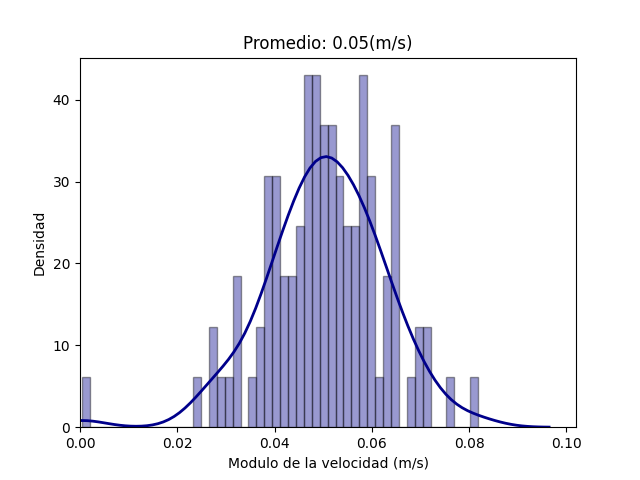
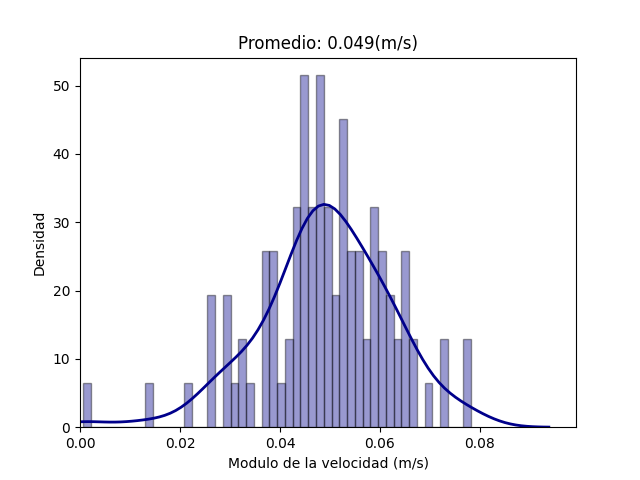
Ovito corners

diff --git a/src/main/java/ar/itba/edu/ss/systems/BrownianMotion.java b/src/main/java/ar/itba/edu/ss/systems/BrownianMotion.java
@@ -118,7 +118,7 @@ public class BrownianMotion {
                     false);
         }
 
-        IOUtils.ovitoOutputParticles(BROWNIAN_MOTION_SIMULATION_FILENAME, particles, frame++, false);
+        IOUtils.ovitoOutputParticles(BROWNIAN_MOTION_SIMULATION_FILENAME, addCornerParticles(particles), frame++, false);
 
         saveVelocities(initialIterationVelocity);
 
@@ -243,23 +243,19 @@ public class BrownianMotion {
     private void outputCalculations(double simulationTime) throws IOException {
         IOUtils.CSVWrite(PDF_COLLISIONS_FILENAME,
                 collitionTimes,
-                collitionTimes.size() / simulationTime + "\n\n",
+                "",
                 time -> time + "\n",
                 false);
 
-        Double initialVelocitySum = initialIterationVelocity.entrySet().stream().reduce(0.0, (acc, entry) -> entry.getValue() + acc, Double::sum);
-
         IOUtils.CSVWrite(PDF_VELOCITY_INITIAL_FILENAME,
                 initialIterationVelocity.values(),
-                initialVelocitySum / (double) initialIterationVelocity.size() + "\n\n",
+                "",
                 velocity -> velocity + "\n",
                 false);
 
-        Double thirdIterationVelocitySum = thirdIterationVelocity.entrySet().stream().reduce(0.0, (acc, entry) -> (entry.getValue() / (double) thirdIterations) + acc, Double::sum);
-
         IOUtils.CSVWrite(PDF_VELOCITY_THIRD_FILENAME,
                 thirdIterationVelocity.values(),
-                thirdIterationVelocitySum / (double) thirdIterationVelocity.size() + "\n\n",
+                "",
                 velocity -> velocity / (double) thirdIterations + "\n",
                 false);
 
@@ -292,7 +288,30 @@ public class BrownianMotion {
             cpyParticle.setY(cpyParticle.getY() - cpyParticle.getYVelocity() * dt);
             return cpyParticle;
         }).collect(Collectors.toList());
-        IOUtils.ovitoOutputParticles(BROWNIAN_MOTION_SIMULATION_FILENAME, frameParticles, frame, true);
+        IOUtils.ovitoOutputParticles(BROWNIAN_MOTION_SIMULATION_FILENAME,
+                addCornerParticles(frameParticles),
+                frame,
+                true);
+    }
+
+    private List<HardParticle> addCornerParticles(List<HardParticle> particles) {
+        /*
+            Agregamos particulas de radio MUY pequeño en los bordes para que ovito mantenga fijo el simulation cell
+        */
+        List<HardParticle> auxList = new LinkedList<>(particles);
+        long maxId = auxList.stream().max(Comparator.comparingLong(HardParticle::getId)).get().getId();
+        Double[] x = {0.0, 0.0, L, L};
+        Double[] y = {L, 0.0, L, 0.0};
+        for (int i = 0; i < 4; i++) {
+            auxList.add((HardParticle) new HardParticle.Builder(maxId + 1 + i)
+                    .withMass(0)
+                    .withAngle(0)
+                    .withVelocity(0)
+                    .withRadius(0.00001)
+                    .withCoordinates(x[i], y[i])
+                    .build());
+        }
+        return auxList;
     }
 
     public static void main(String args[]) {

diff --git a/Python/BrownianMotion.py b/Python/BrownianMotion.py
@@ -14,8 +14,6 @@ for i in range(0, len(T)):
             ['java', '-jar', './target/MolecularDinamic-jar-with-dependencies.jar', '-Dt=' + str(T[i]), '-Dn=' + str(N[j])])
 
 collisions = np.loadtxt("./pdf-colisiones.txt", delimiter='\n')
-collisions_frequency = collisions[0]
-collisions = collisions[1:]
 
 sns.distplot(collisions, hist=True, kde=True,
              bins=50,
@@ -23,7 +21,7 @@ sns.distplot(collisions, hist=True, kde=True,
              hist_kws={'edgecolor': 'black'},
              kde_kws={'linewidth': 2}).set(xlim=(0))
 
-plt.title(str(round(collisions_frequency, 3)) + ' colisiones por segundo')
+plt.title('Frecuencia: '+ str(round(len(collisions) / T[0], 3)) + ' colisiones por segundo, Promedio: ' + str(round(np.average(collisions), 3)) + '(s)')
 plt.xlabel('Tiempo entre colisión (s)')
 plt.ylabel('Densidad')
 # plt.show()
@@ -31,8 +29,6 @@ plt.savefig('./Python/graphs/pdf-colisiones.png')
 plt.close()
 
 velocities_third = np.loadtxt("./pdf-velocidad-third.txt", delimiter='\n')
-velocities_third_avg = velocities_third[0]
-velocities_third = velocities_third[1:]
 
 sns.distplot(velocities_third, hist=True, kde=True,
              bins=50,
@@ -40,7 +36,7 @@ sns.distplot(velocities_third, hist=True, kde=True,
              hist_kws={'edgecolor': 'black'},
              kde_kws={'linewidth': 2}).set(xlim=(0))
 
-plt.title('Promedio: ' + str(round(velocities_third_avg, 3)) + '(m/s)')
+plt.title('Promedio: ' + str(round(np.average(velocities_third), 3)) + '(m/s)')
 plt.xlabel('Modulo de la velocidad (m/s)')
 plt.ylabel('Densidad')
 # plt.show()
@@ -48,8 +44,6 @@ plt.savefig('./Python/graphs/pdf-velocidad-third.png')
 plt.close()
 
 velocities_init = np.loadtxt("./pdf-velocidad-initial.txt", delimiter='\n')
-velocities_init_avg = velocities_init[0]
-velocities_init = velocities_init[1:]
 
 sns.distplot(velocities_init, hist=True, kde=True,
              bins=50,
@@ -57,7 +51,7 @@ sns.distplot(velocities_init, hist=True, kde=True,
              hist_kws={'edgecolor': 'black'},
              kde_kws={'linewidth': 2}).set(xlim=(0))
 
-plt.title('Promedio: ' + str(round(velocities_init_avg, 3)) + '(m/s)')
+plt.title('Promedio: ' + str(round(np.average(velocities_init), 3)) + '(m/s)')
 plt.xlabel('Modulo de la velocidad (m/s)')
 plt.ylabel('Densidad')
 # plt.show()
@@ -69,7 +63,7 @@ fig, ax = plt.subplots()
 ax.grid(True)
 plt.axis([0, 0.5, 0, 0.5])
 
-V = [0.1, 0.5, 0.15, 0.25]
+V = [0.1, 0.15, 0.25, 0.5]
 
 for i in range(0, len(V)):
     subprocess.call(['java', '-jar', './target/MolecularDinamic-jar-with-dependencies.jar', '-Dt=120', '-Dn=100'])
